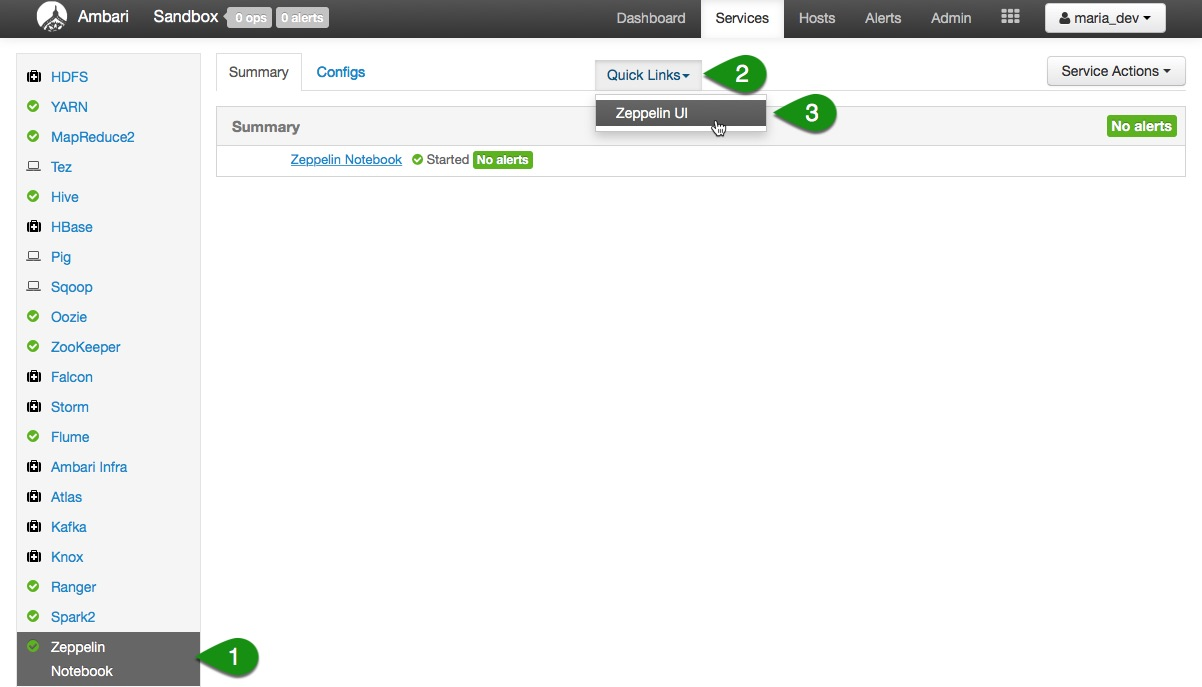
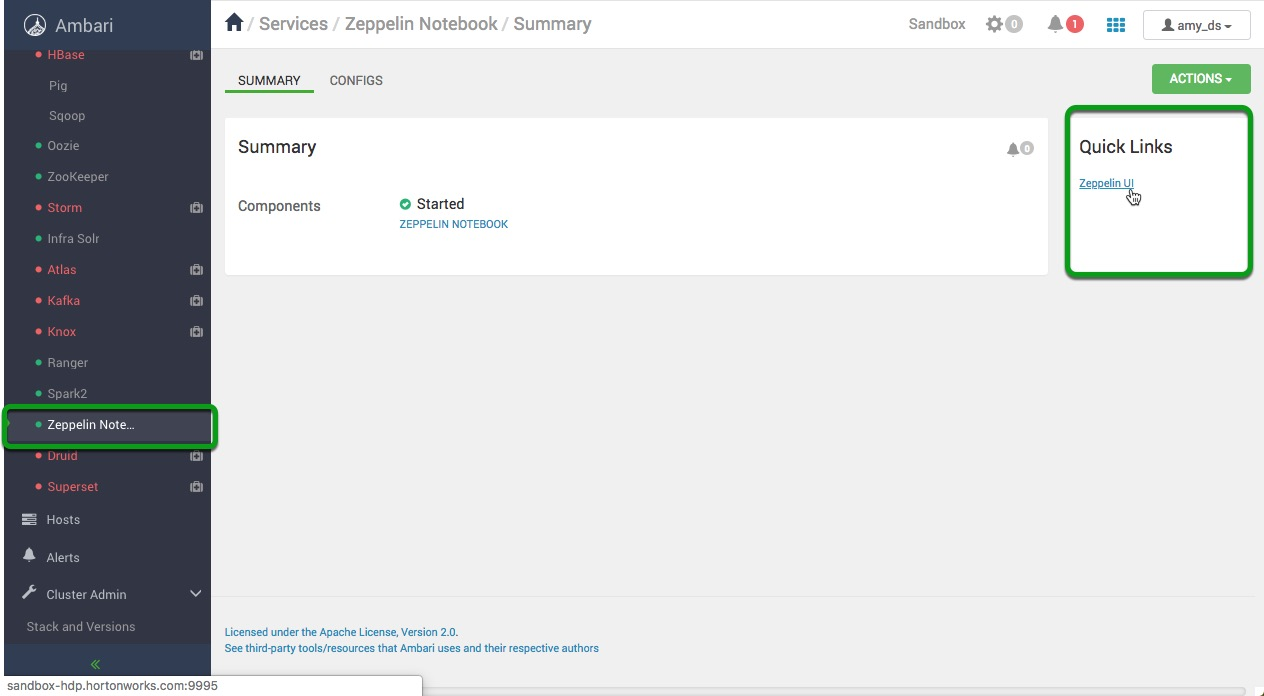
Minor Changes for HDP3.0.0 Update

diff --git a/tutorials/hdp/getting-started-with-apache-zeppelin/tutorial.md b/tutorials/hdp/getting-started-with-apache-zeppelin/tutorial.md
@@ -1,13 +1,13 @@
 ---
 title: Getting Started with Apache Zeppelin
-author: sandbox team
+author: sandbox-team
 tutorial-id: 368
 experience: Beginner
 persona: Data Scientist & Analyst
 source: Hortonworks
 use case: Data Discovery
 technology: Apache Spark, Apache Zeppelin
-release: hdp-2.6.5
+release: hdp-3.0.0
 environment: Sandbox
 product: HDP
 series: HDP > Develop with Hadoop > Apache Spark
@@ -31,7 +31,7 @@ The purpose of this tutorial is to guide you through basic functionalities of Ze
 
 ## Prerequisites
 
-- Installed and deployed the [Latest HDP Sandbox](https://hortonworks.com/downloads/#sandbox)
+- Downloaded and deployed the [Hortonworks Data Platform (HDP)](https://hortonworks.com/downloads/#sandbox) Sandbox
 - Ensure Spark version 2.x or later is installed
 
 ## Outline
@@ -66,7 +66,7 @@ Login to Ambari (operations console) using **amy_ds/amy_ds** as a username/passw
 
 ![scr1-login](assets/scr1-login.jpg)
 
-Once you are in Ambari click on Zeppelin Notebook then click on Quick Links and finally on Zeppelin UI.
+Once you are in Ambari click on Zeppelin Notebook select Zeppelin UI under Quick Links.
 
 ![getting-to-zepp](assets/getting-to-zepp.jpg)
 
@@ -92,7 +92,7 @@ To create a notebook:
 
 ![click-create-new-note](assets/click-create-new-note.jpg)
 
-2\. You will see the following window. Type a name for the new note (In this case we will call it _Spark on HDP_), for now let's leave the interpreter option on the default setting, you will learn about interpreters in subsequent sections. Finally, click on create.
+2\. You will see the following window. Type a name for the new note (In this case we will call it _Spark on HDP_), for now let's leave the interpreter option on the default setting. You will learn about interpreters in subsequent sections; Finally, click on create.
 
 ![create-new-note-zepp](assets/create-new-note-zepp.jpg)
 
@@ -108,7 +108,7 @@ Instead of creating a new notebook, you may want to import an existing one.
 
 There are two ways to import Zeppelin notebooks, either by pointing to json notebook file local to your environment or by providing a url to raw file hosted elsewhere, e.g. on github. We'll cover both ways of importing those files.
 
-1\. Importing a JSON file
+**1\. Importing a JSON file**
 
 On the Zeppelin UI click Import.
 
@@ -124,7 +124,7 @@ Finally, select the notebook you want to import and click **Open**.
 
 Now you should see your imported notebook among other notebooks on the main Zeppelin screen.
 
-2\. Importing a Notebook with a URL
+**2\. Importing a Notebook with a URL**
 
 Click Import note.
 
@@ -160,7 +160,7 @@ The notebook has now been moved to the Zeppelin's trash folder. You can always r
 
 ## Adding a Paragraph
 
-By now you must be eager to begin coding or expanding on the notebook you imported. Adding a paragraph in Zeppelin is very simple. Begin by opening the notebook that you want to work on.
+By now you must be eager to begin coding or expanding on the notebook you imported. Adding a paragraph in Zeppelin is very simple. Begin by opening the notebook that you want to work on, for this part of the tutorial we will use the _Spark On HDP_ Notebook we created earlier.
 
 Next, hover over either the lower or upper edge of an existent paragraph and you will see the option to add a paragraph appear.
 
